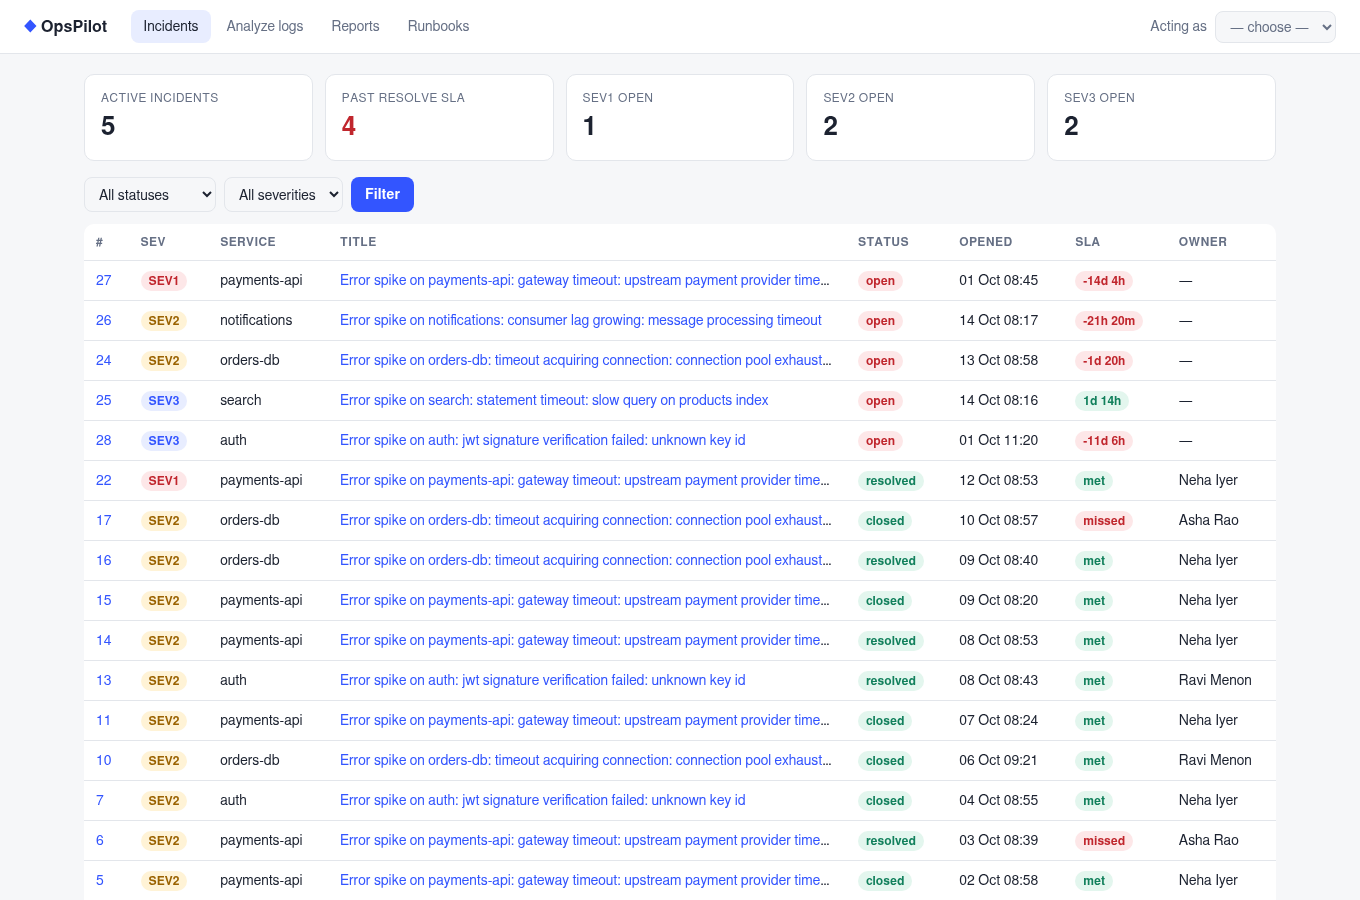
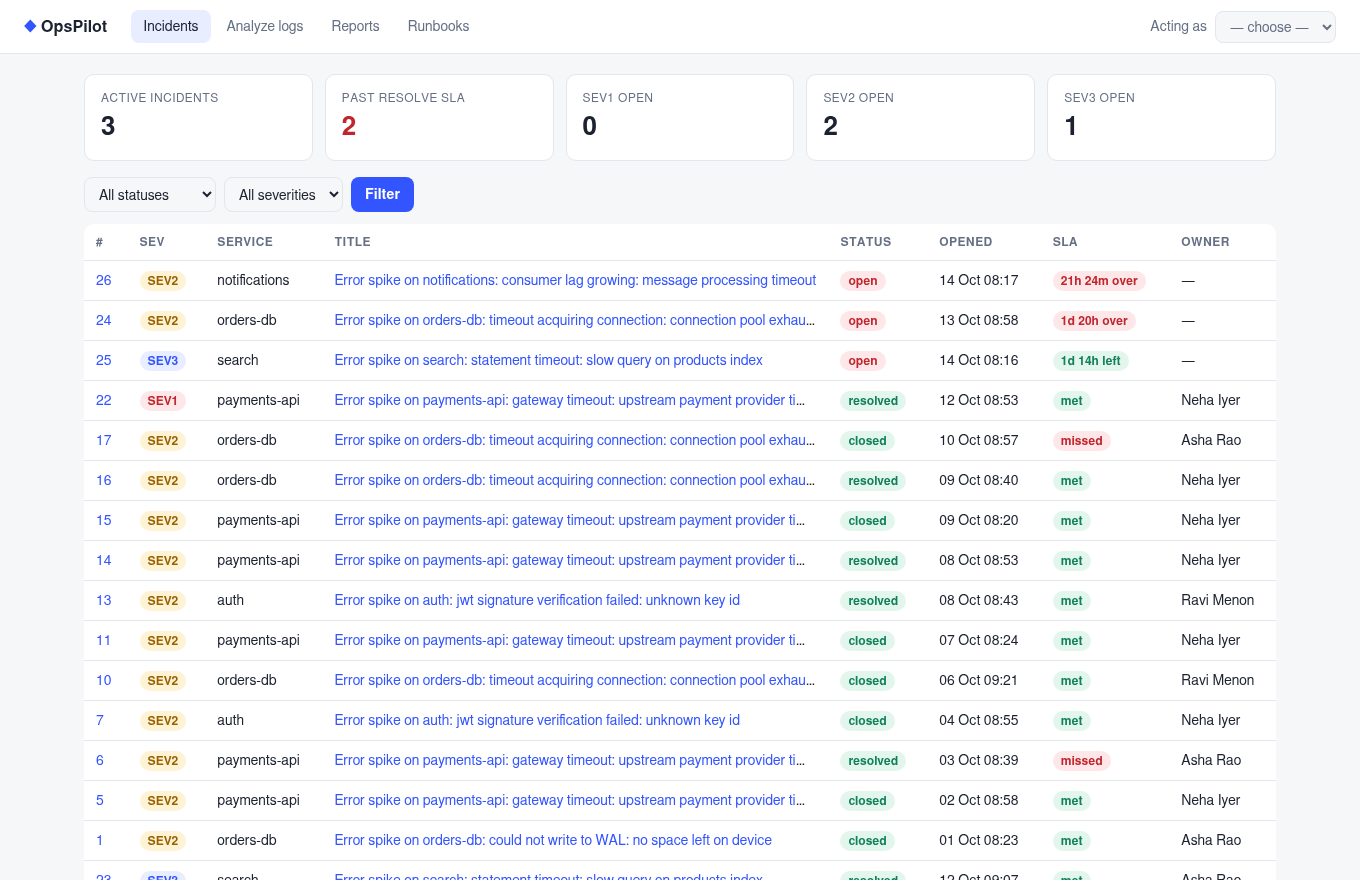
Keep an incident's original sample error when later spikes attach

diff --git a/opspilot/templates/incident.html b/opspilot/templates/incident.html
@@ -97,6 +97,7 @@
           {% if e.kind == 'status_change' %}moved {{ e.from_status }} → {{ e.to_status }}
           {% elif e.kind == 'created' %}opened the incident
           {% elif e.kind == 'spike' %}spike: {{ e.detail.peak_errors_in_window }} errors / {{ e.detail.window_seconds }}s
+            {% if e.detail.top_message and e.detail.top_message != incident.sample_message %}<p>{{ e.detail.top_message }}</p>{% endif %}
           {% elif e.kind == 'comment' %}commented
           {% elif e.kind == 'assigned' %}assigned {{ e.detail.assignee }}
           {% elif e.kind == 'ai_suggested' %}generated a {{ e.detail.source|upper }} triage suggestion

diff --git a/tests/test_ingest.py b/tests/test_ingest.py
@@ -26,12 +26,15 @@ def test_spike_opens_incident_and_records_ingest(engine):
 
 def test_repeat_spike_attaches_to_active_incident(engine):
     with engine.begin() as conn:
-        first = analyze_logs(conn, _lines("auth", 12))
-        second = analyze_logs(conn, _lines("auth", 15, minute=10))
+        first = analyze_logs(conn, _lines("auth", 12, msg="invalid token"))
+        second = analyze_logs(conn, _lines("auth", 15, minute=10, msg="clock skew"))
         incident = incident_store.get(conn, first.opened[0])
+        spikes = [e for e in events.for_incident(conn, incident["id"]) if e["kind"] == "spike"]
     assert second.opened == []
     assert second.updated == first.opened
     assert incident["error_count"] == 27
+    assert incident["sample_message"] == "invalid token"  # original error is kept
+    assert spikes[-1]["detail"]["top_message"] == "clock skew"
 
 
 def test_quiet_logs_open_nothing(engine):

diff --git a/opspilot/store/incidents.py b/opspilot/store/incidents.py
@@ -139,10 +139,12 @@ def update_fields(conn: Connection, incident_id: int, **fields) -> None:
 
 
 def add_errors(conn: Connection, incident_id: int, count: int, sample: str | None) -> None:
+    """Attach more errors to an incident. The first sample message is kept,
+    since it is what the incident title and triage were based on."""
     conn.execute(
         text(
             "UPDATE incidents SET error_count = error_count + :count,"
-            " sample_message = COALESCE(:sample, sample_message) WHERE id = :id"
+            " sample_message = COALESCE(sample_message, :sample) WHERE id = :id"
         ),
         {"count": count, "sample": sample, "id": incident_id},
     )

diff --git a/opspilot/analyzer/ingest.py b/opspilot/analyzer/ingest.py
@@ -73,6 +73,7 @@ def analyze_logs(
             "peak_errors_in_window": spike.peak_errors_in_window,
             "window_seconds": window_seconds,
             "total_errors": spike.total_errors,
+            "top_message": spike.top_message,
         }
         if active:
             incident_store.add_errors(conn, active["id"], spike.total_errors, spike.top_message)
